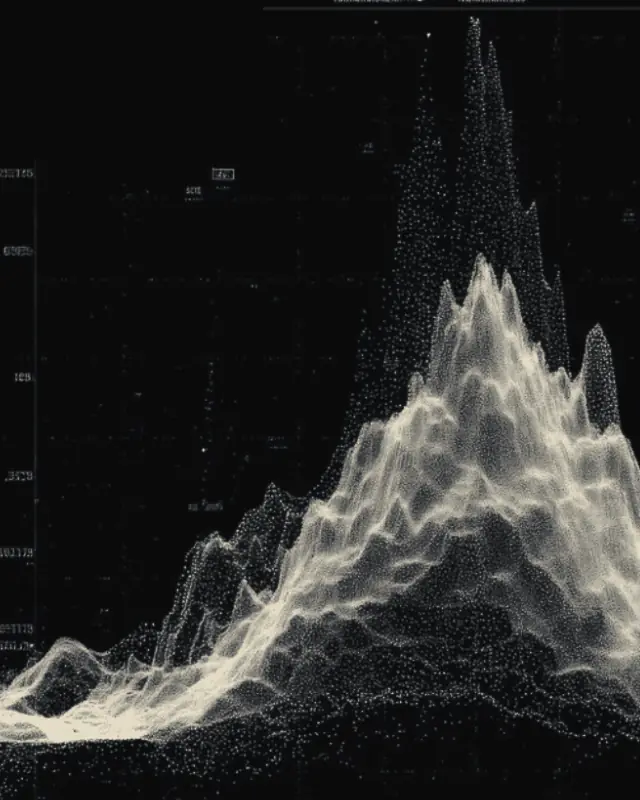
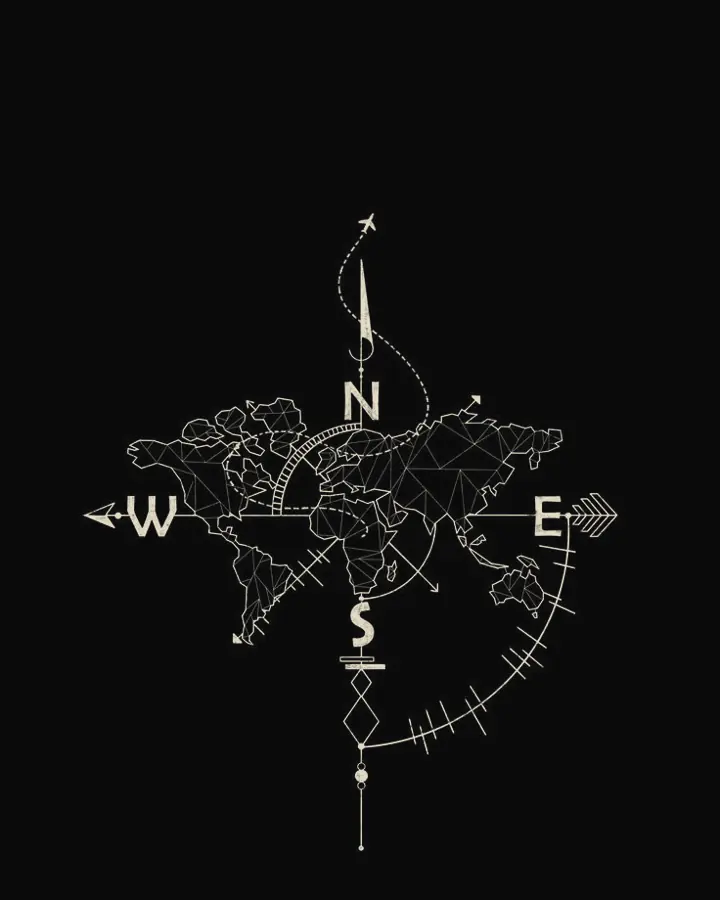
Hero featured image: compass over world map (cover fit)
Claude-Session: https://claude.ai/code/session_01Cau7c7tL3meKz56QnXx8Xe

diff --git a/landing/index.html b/landing/index.html
@@ -104,7 +104,7 @@ var m=document.querySelector('meta[name=theme-color]');if(m)m.content=t==='light
       
       <figure class="portrait reveal-img" id="portrait">
         <div class="portrait-in">
-          <img class="peak" src="img/hero-peak.webp" alt="Abstract dotted data landscape" width="616" height="770" fetchpriority="high" decoding="async">
+          <img class="peak" src="img/hero-peak.webp" alt="Compass over a world map" width="720" height="900" fetchpriority="high" decoding="async">
           <span class="mono-t">Lucius Capital</span>
         </div>
       </figure>

diff --git a/landing/style.css b/landing/style.css
@@ -1003,3 +1003,5 @@ em .wi{animation-delay:calc(var(--i,0) * .18s)}
 
 .portrait-in .peak{position:absolute;inset:0;width:100%;height:100%;object-fit:cover;opacity:.92}
 .portrait-in::after{content:"";position:absolute;inset:0;background:linear-gradient(180deg,rgba(8,9,10,.15),transparent 40%,rgba(8,9,10,.55))}
+.portrait-in .peak{object-fit:contain;object-position:50% 50%;opacity:.95;padding:6%}
+.portrait-in .peak{object-fit:cover;padding:0;opacity:.95}
